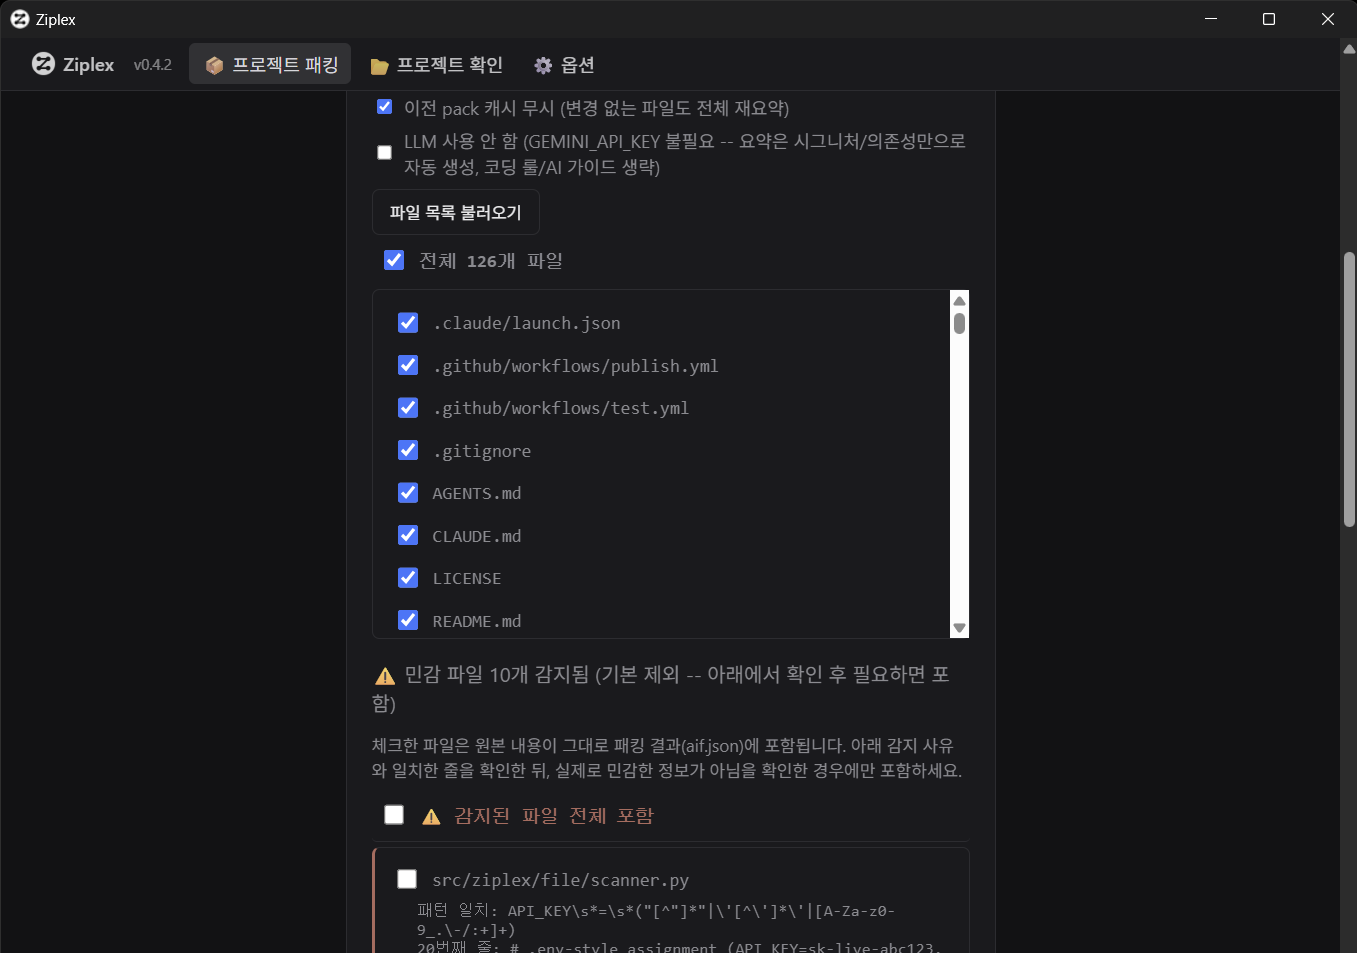
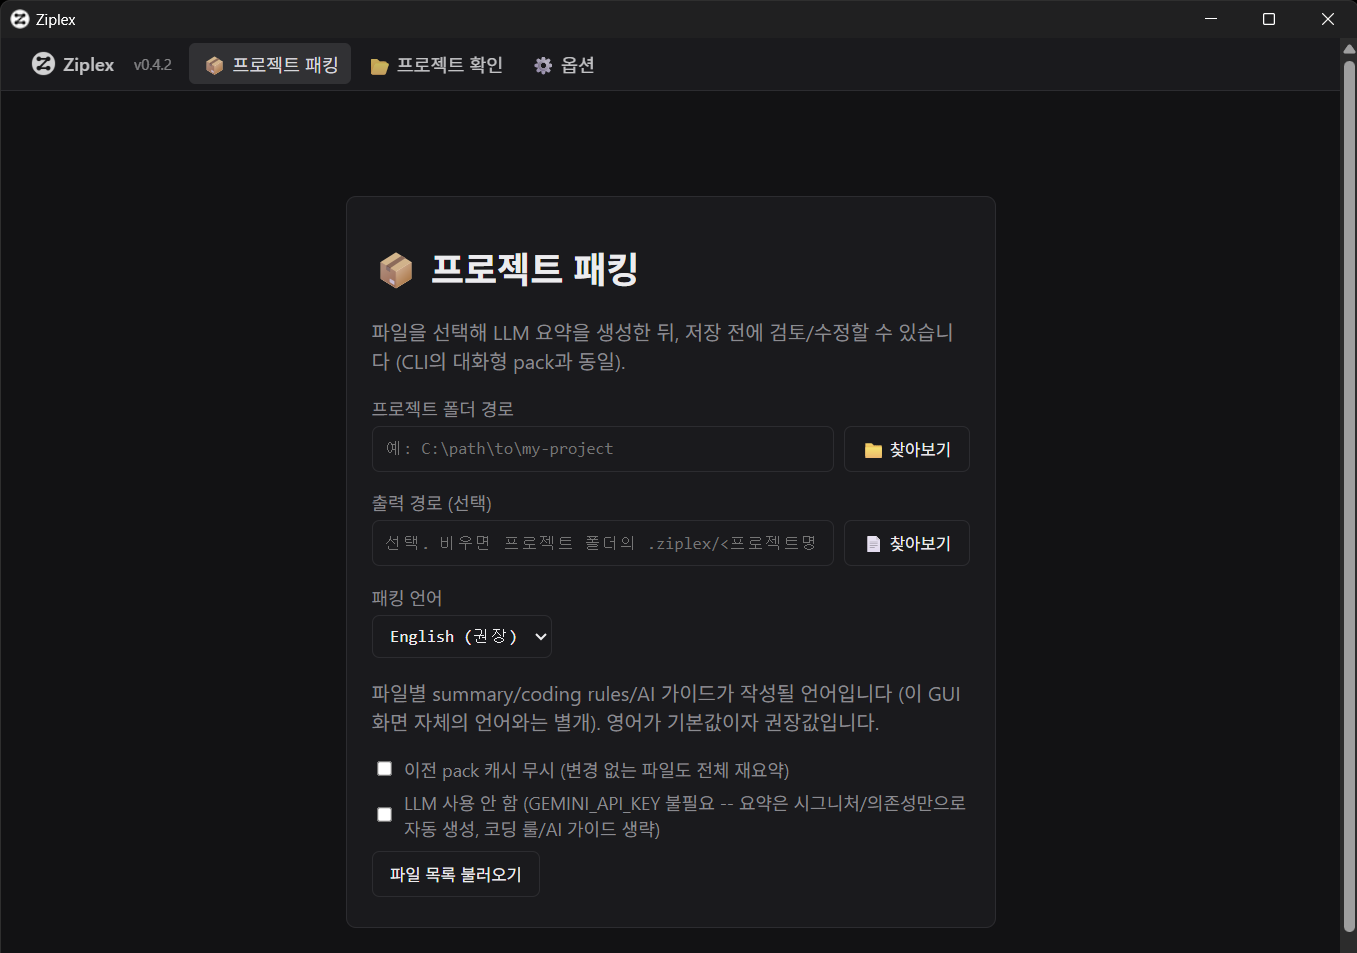
docs: use the pack setup screen, not the file checklist, for gui-pack-select.png
Swapped to the screenshot above "load file list" (project folder,
output path, packing language, cache/no-LLM checkboxes) instead of
the one below it (the file checklist after loading) -- user feedback
after reviewing the previous refresh. Updated the alt text/caption in
both READMEs and the docs/images/README.md role table to describe
what's actually shown now.

Claude-Session: https://claude.ai/code/session_01MhVNvbFc3vK4H45b55A4aA

diff --git a/README_ko.md b/README_ko.md
@@ -236,7 +236,7 @@ ziplex-gui --no-window                                # 창 대신 일반 브라
 
 ### 프로젝트 패킹하기
 
-![패킹: 프로젝트 선택 및 파일 체크](docs/images/gui-pack-select.png)
+![패킹: 프로젝트 설정 — 폴더/출력 경로, 패킹 언어](docs/images/gui-pack-select.png)
 
 네이티브 폴더 선택창으로 프로젝트 폴더를 고르고, 어떤 파일을 포함할지 체크박스로 고른 뒤(`collect`의 보안 스캔이 만드는 것과 같은 safe/dangerous 구분), 패킹 언어(`pack --lang`의 GUI 버전 — summary/rules/AI 가이드가 실제로 *작성될* 언어이며, 아래 옵션 페이지의 화면 표시 언어와는 별개)를 고르고, 원하면 "LLM 사용 안 함"(`pack --no-llm`의 GUI 버전)도 체크하고, 백그라운드에서 돌아가는 패킹 과정을 지켜봅니다.
 

diff --git a/README.md b/README.md
@@ -237,7 +237,7 @@ ziplex-gui --no-window                                # plain browser tab instea
 
 ### Packing a project
 
-![Pack: pick a project and select files](docs/images/gui-pack-select.png)
+![Pack: project setup — folder, output path, and packing language](docs/images/gui-pack-select.png)
 
 Pick a project folder with the native folder picker, check off which files to include (the same safe/dangerous split `collect`'s security scan produces), pick the packing language (`pack --lang`'s GUI equivalent — what language summaries/rules/the AI guide are *written in*, separate from the Options page's own display-language setting below), optionally check "no LLM" (`pack --no-llm`'s GUI equivalent), and watch the pack run in the background.
 

diff --git a/docs/images/README.md b/docs/images/README.md
@@ -4,7 +4,7 @@ Drop screenshots here with these exact filenames and both `README.md`/`README_ko
 
 | Filename | Screen |
 |---|---|
-| `gui-pack-select.png` | Pack: project folder picked, files checked off for inclusion |
+| `gui-pack-select.png` | Pack: project setup screen (folder/output path, packing language) — before "load file list" is clicked |
 | `gui-pack-review.png` | Pack: post-analysis review (project guide/rules/folder+per-file summaries) |
 | `gui-relationships.png` | Dependency tree overview or the per-file relationship editor |
 | `gui-overview.png` | An already-packed project's Overview page |
